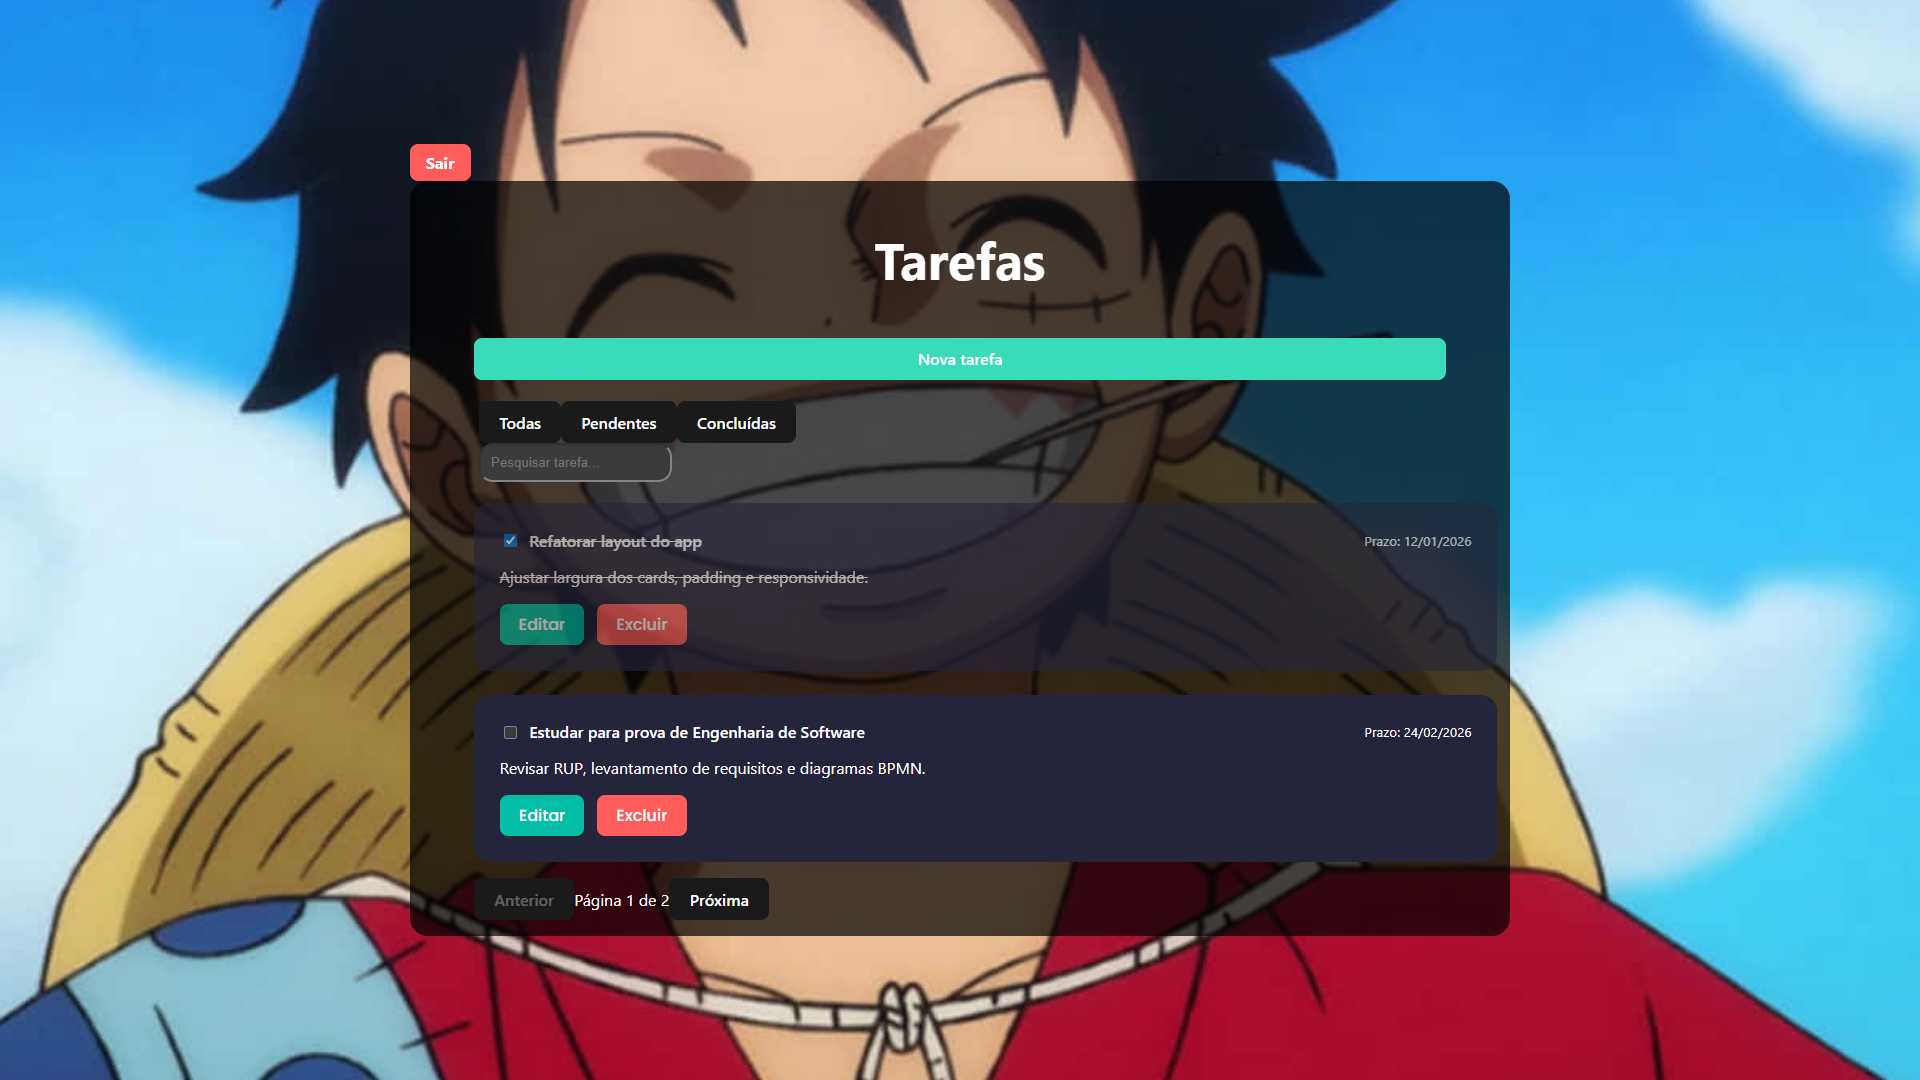
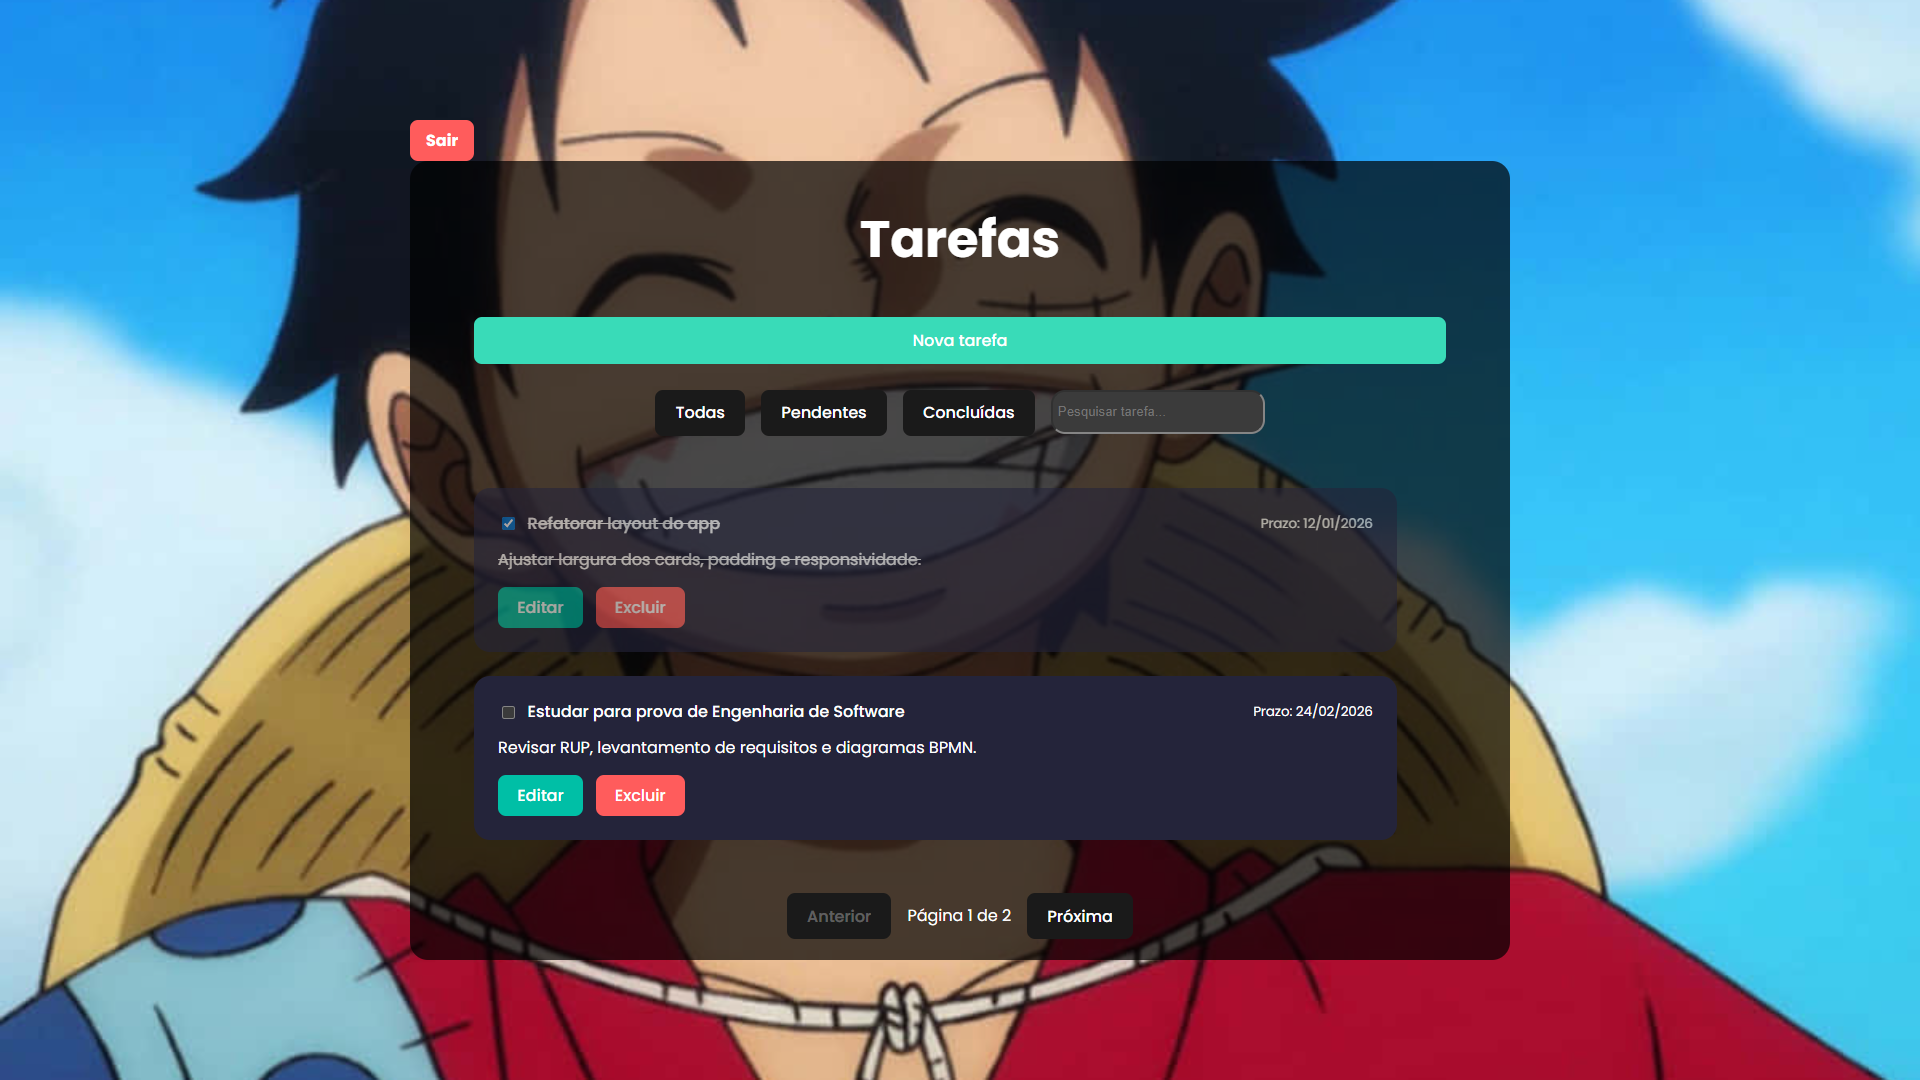
Alterando layout da tela de tasks

Changed region(s): [[0.1875, 0.0917, 0.8125, 0.8861], [0.6562, 0.4583, 0.7188, 0.4889], [0.7188, 0.4889, 0.75, 0.5194]]

diff --git a/src/views/Tasks.vue b/src/views/Tasks.vue
@@ -139,6 +139,7 @@ onMounted(loadTasks)
   <div class="header">
     <button class="logout" @click="handleLogout">Sair</button>
   </div>
+
   <div class="wrap">
     <h1>Tarefas</h1>
 
@@ -217,13 +218,27 @@ h1 {
 
 /* FILTROS */
 .filters {
-   padding: 5px;
+   border-radius: 8px;
+   padding: 10px;
+   gap: 1rem;
+   display: flex;
+   margin-bottom: 10px;
+   justify-content: center;
 }
+
+.filter-buttons { 
+    display: flex; 
+    gap: 1rem; /* espaçamento horizontal entre os botões */ 
+    justify-content: center; 
+    margin-bottom: 1rem; 
+}
+
 /* INPUT DE FILTROS */
 .search {
-   padding: 10px;
+   padding: 5px;
    border-radius: 14px;
-
+   height: 30px;
+   width: 200px;
 }
 
 /* BOTAO DE SAIR */
@@ -235,6 +250,16 @@ h1 {
     color: #fff; 
     font-weight: bold; 
     cursor: pointer; 
+}
+
+.pagination {
+    display: flex; 
+    gap: 1rem; 
+    justify-content: center; 
+    align-items: center;
+    margin-top: 2rem;
+    padding: 5px; 
+    border-radius: 8px;
 }
 
 </style>

diff --git a/src/components/TaskList.vue b/src/components/TaskList.vue
@@ -63,9 +63,9 @@ function formatDate(dateString) {
 }
 
 .card {
-  width: 100%;
+  width: 90%;
   background: #24243a;
-  padding: 1.6rem;
+  padding: 1.5rem;
   border-radius: 16px;
   transition: opacity 0.3s ease, transform 0.2s ease;
 }

diff --git a/src/style.css b/src/style.css
@@ -25,6 +25,7 @@ a:hover {
 }
 
 body { 
+  font-family: 'Poppins', sans-serif;
   display: flex; 
   justify-content: center; 
   align-items: center; 
